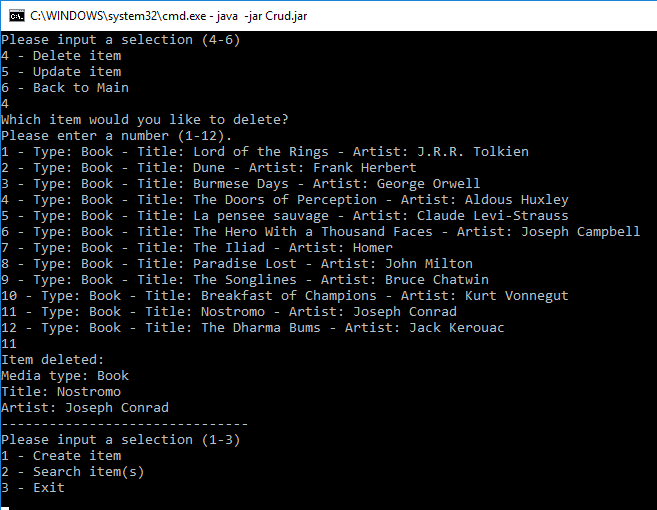
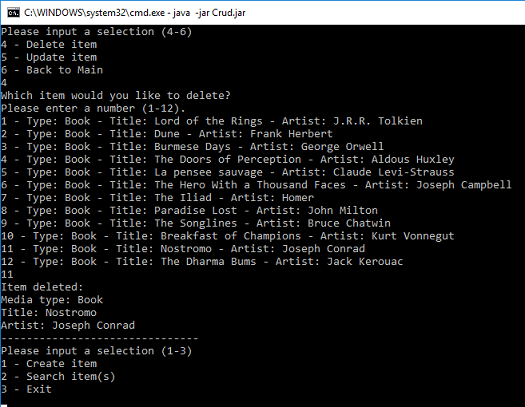
image resizing

diff --git a/index.html b/index.html
@@ -254,7 +254,7 @@
                             </div>
                             <div class="experience">
                                 <div class="experience-image">
-                                    <img class="img-responsive" src="images/experience/mjd-interactive.PNG" alt="Image">
+                                    <img class="img-responsive" src="images/experience/mjd.PNG" alt="Image">
                                 </div>
                                 <div class="experience-info">
                                     <h3>Web Development Intern</h3>
@@ -285,7 +285,7 @@
                             <hr>
                             <div class="experience">
                                 <div class="experience-image">
-                                    <img id="lc" class="img-responsive" src="images/experience/lc.PNG" alt="Image">
+                                    <img class="img-responsive" src="images/experience/lc.PNG" alt="Image">
                                 </div>
                                 <div class="experience-info">
                                     <h3>Project Coordinator</h3>
@@ -299,7 +299,7 @@
                             <hr>
                             <div class="experience">
                                 <div class="experience-image">
-                                    <img id="mp" class="img-responsive" src="images/experience/maxplanck.PNG" alt="Image">
+                                    <img class="img-responsive" src="images/experience/maxplanck.PNG" alt="Image">
                                 </div>
                                 <div class="experience-info">
                                     <h3>Field Site Manager</h3>
@@ -333,7 +333,7 @@
                                     <p>I am constantly going out of my way to learn new things and develop new skills, and I consider myself a lifetime learner. As such I've formally studied a wide variety of subjects, from Sanskrit to multi-threaded Java applications.</p>
                                 </div>
                                 <div class="education-info">
-                                    <img id="learnHeader" class="img-responsive" src="images/education/learn.PNG" alt="Image">
+                                    <img class="img-responsive" src="images/education/learn.PNG" alt="Image">
                                     <h5>Full Stack Web Development</h5>
                                     <p id="no-vertical-margin5"><i>San Diego, CA</i></p>
                                     <h7 >March 2017 - July 2017</h7>
@@ -345,7 +345,7 @@
                                 </div>
                                 <hr>
                                 <div class="education-info">
-                                    <img id="ucsdHeader" class="img-responsive" src="images/education/ucsd.jpg" alt="Image">
+                                    <img class="img-responsive" src="images/education/ucsd.jpg" alt="Image">
                                     <h5>Java Programming Certificate</h5>
                                     <p id="no-vertical-margin6"><i>San Diego, CA</i></p>
                                     <h7>July 2016 - August 2017</h7>
@@ -362,7 +362,7 @@
                                 </div>
                                 <hr>
                                 <div class="education-info">
-                                    <img id="pennHeader" class="img-responsive" src="images/education/penn.jpg" alt="Image">
+                                    <img class="img-responsive" src="images/education/penn.jpg" alt="Image">
                                     <h5>Bachelor of Arts, Anthropology</h5>
                                     <p id="no-vertical-margin7"><i>Philadelphia, PA</i></p>
                                     <h7>2009 - 2013</h7>
@@ -508,7 +508,7 @@
                                         </li>
                                         <li>
                                             <div class="icons icons3">
-                                                <img id="linkedin-icon" src="images/linkedin-icon.PNG"/>
+                                                <img src="images/linkedin-icon.PNG"/>
                                             </div>
                                             <a href="https://www.linkedin.com/in/alexander-tickle/" target="_blank"><h3>LinkedIn</h3></a>
                                         </li>

diff --git a/css/mystyling.css b/css/mystyling.css
@@ -1,12 +1,3 @@
-#pennHeader {
-  height: 70px;
-  width: 230px;
-}
-
-#ucsdHeader {
-  width: 400px;
-}
-
 #no-vertical-margin {
   margin-top: 0px;
   margin-bottom: 0px;
@@ -45,10 +36,6 @@
   margin-bottom: 0px;
 }
 
-.portfolio-thumbnail {
-  height: 264px;
-  width: 360px;
-}
 
 .float-right {
   float: right;
@@ -60,33 +47,5 @@
 }
 
 #prof-logo {
-  height: 58px;
   border-radius: 50%;
-}
-
-#linkedin-icon {
-  height: 40px;
-}
-
-.project-img {
-  width: 525px;
-}
-
-#lc {
-  width: 70%;
-  margin-left: 10%;
-}
-
-#mjd {
-  width: 70%;
-  height: 70%;
-  margin-left: 10%;
-  margin-top: 20%;
-}
-
-#mp {
-  width: 70%;
-  height: 70%;
-  margin-left: 10%;
-  margin-top: 20%;
 }
